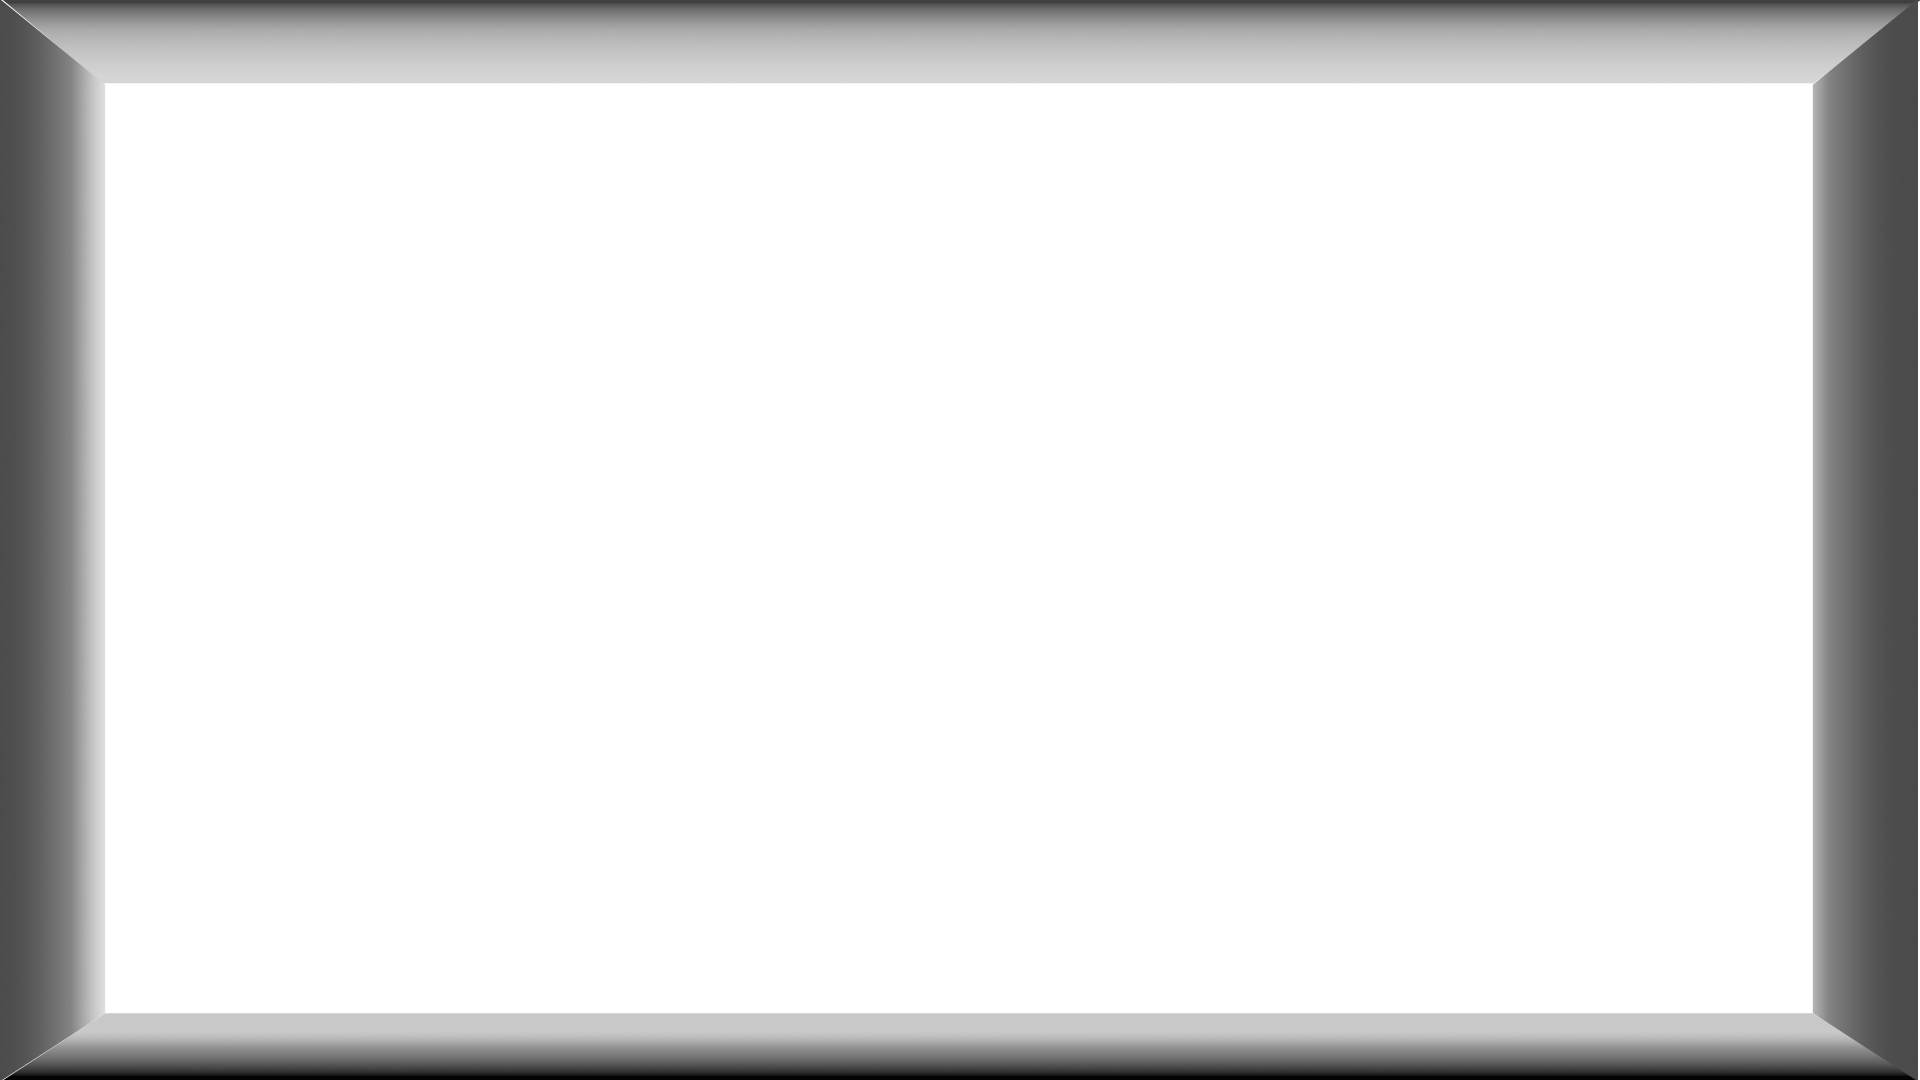
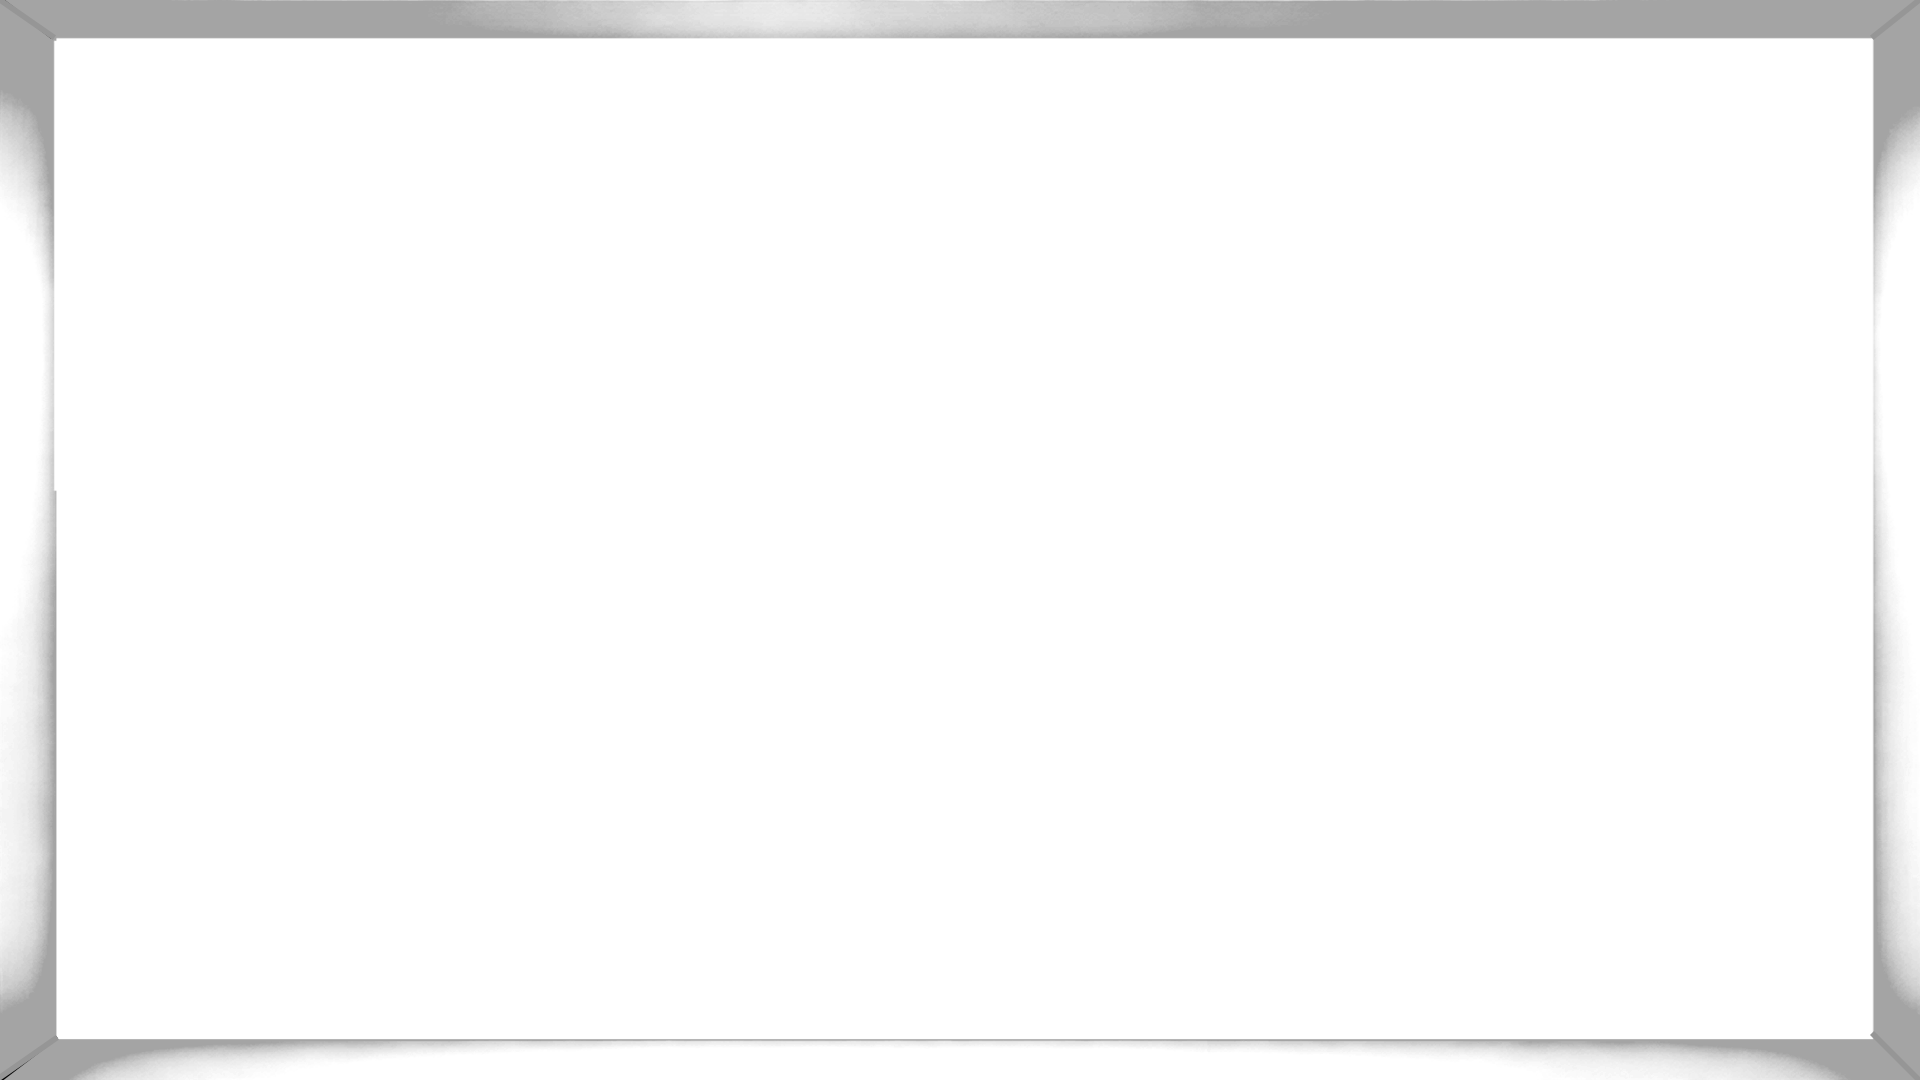
Restyle header with Helvetica + Pacifico ClayDream wordmark

Changed region(s): [[0.0, 0.0, 1.0, 1.0]]

diff --git a/index.html b/index.html
@@ -5,6 +5,10 @@
   <meta name="viewport" content="width=device-width, initial-scale=1" />
   <title>ClayDream Captures</title>
 
+  <link rel="preconnect" href="https://fonts.googleapis.com">
+  <link rel="preconnect" href="https://fonts.gstatic.com" crossorigin>
+  <link href="https://fonts.googleapis.com/css2?family=Pacifico&display=swap" rel="stylesheet">
+
   <style>
     * {
       box-sizing: border-box;
@@ -23,21 +27,44 @@
       width: 100vw;
       height: 100vh;
       display: grid;
-      grid-template-rows: repeat(5, 1fr);
+      grid-template-rows: repeat(3, 1fr);
       gap: 12px;
-      padding: 12px;
+      padding: 140px 12px 12px;
       background: #000;
     }
 
     #logo {
       position: fixed;
-      top: 0px;
+      top: 24px;
       left: 50%;
       transform: translateX(-50%);
-      height: 200px;
-      width: auto;
       z-index: 10;
       pointer-events: none;
+      color: #fff;
+      font-size: 30px;
+      line-height: 1;
+      white-space: nowrap;
+      display: flex;
+      align-items: center;
+      gap: 12px;
+    }
+
+    #logo .logo-img {
+      height: 48px;
+      width: auto;
+      display: block;
+    }
+
+    #logo .clay {
+      font-family: "Helvetica Neue", Helvetica, Arial, sans-serif;
+      font-weight: 700;
+      letter-spacing: -0.02em;
+    }
+
+    #logo .dream {
+      font-family: "Pacifico", cursive;
+      font-weight: 400;
+      margin-left: 0.08em;
     }
 
     .row {
@@ -63,7 +90,7 @@
     }
 
     .item {
-      flex: 0 0 calc((100vw - 48px) / 3);
+      flex: 0 0 calc((100vw - 60px) / 4);
       height: 100%;
       background: #050505;
       border-radius: 18px;
@@ -101,7 +128,10 @@
 </head>
 
 <body>
-  <img id="logo" src="/logo.png" alt="logo" />
+  <div id="logo">
+    <img class="logo-img" src="/logo.png" alt="logo" />
+    <span class="text"><span class="clay">Clay</span><span class="dream">Dream</span></span>
+  </div>
   <main id="gallery"></main>
 
   <script>
@@ -115,10 +145,10 @@
     }
 
     function chunkIntoRows(images) {
-      const rows = [[], [], [], [], []];
+      const rows = [[], [], []];
 
       images.forEach((image, index) => {
-        rows[index % 5].push(image);
+        rows[index % 3].push(image);
       });
 
       return rows;
@@ -148,7 +178,7 @@
       gallery.className = "";
 
       const rows = chunkIntoRows(images);
-      const shouldAnimate = images.length > 15;
+      const shouldAnimate = images.length > 12;
 
       rows.forEach((rowImages, rowIndex) => {
         const row = document.createElement("section");